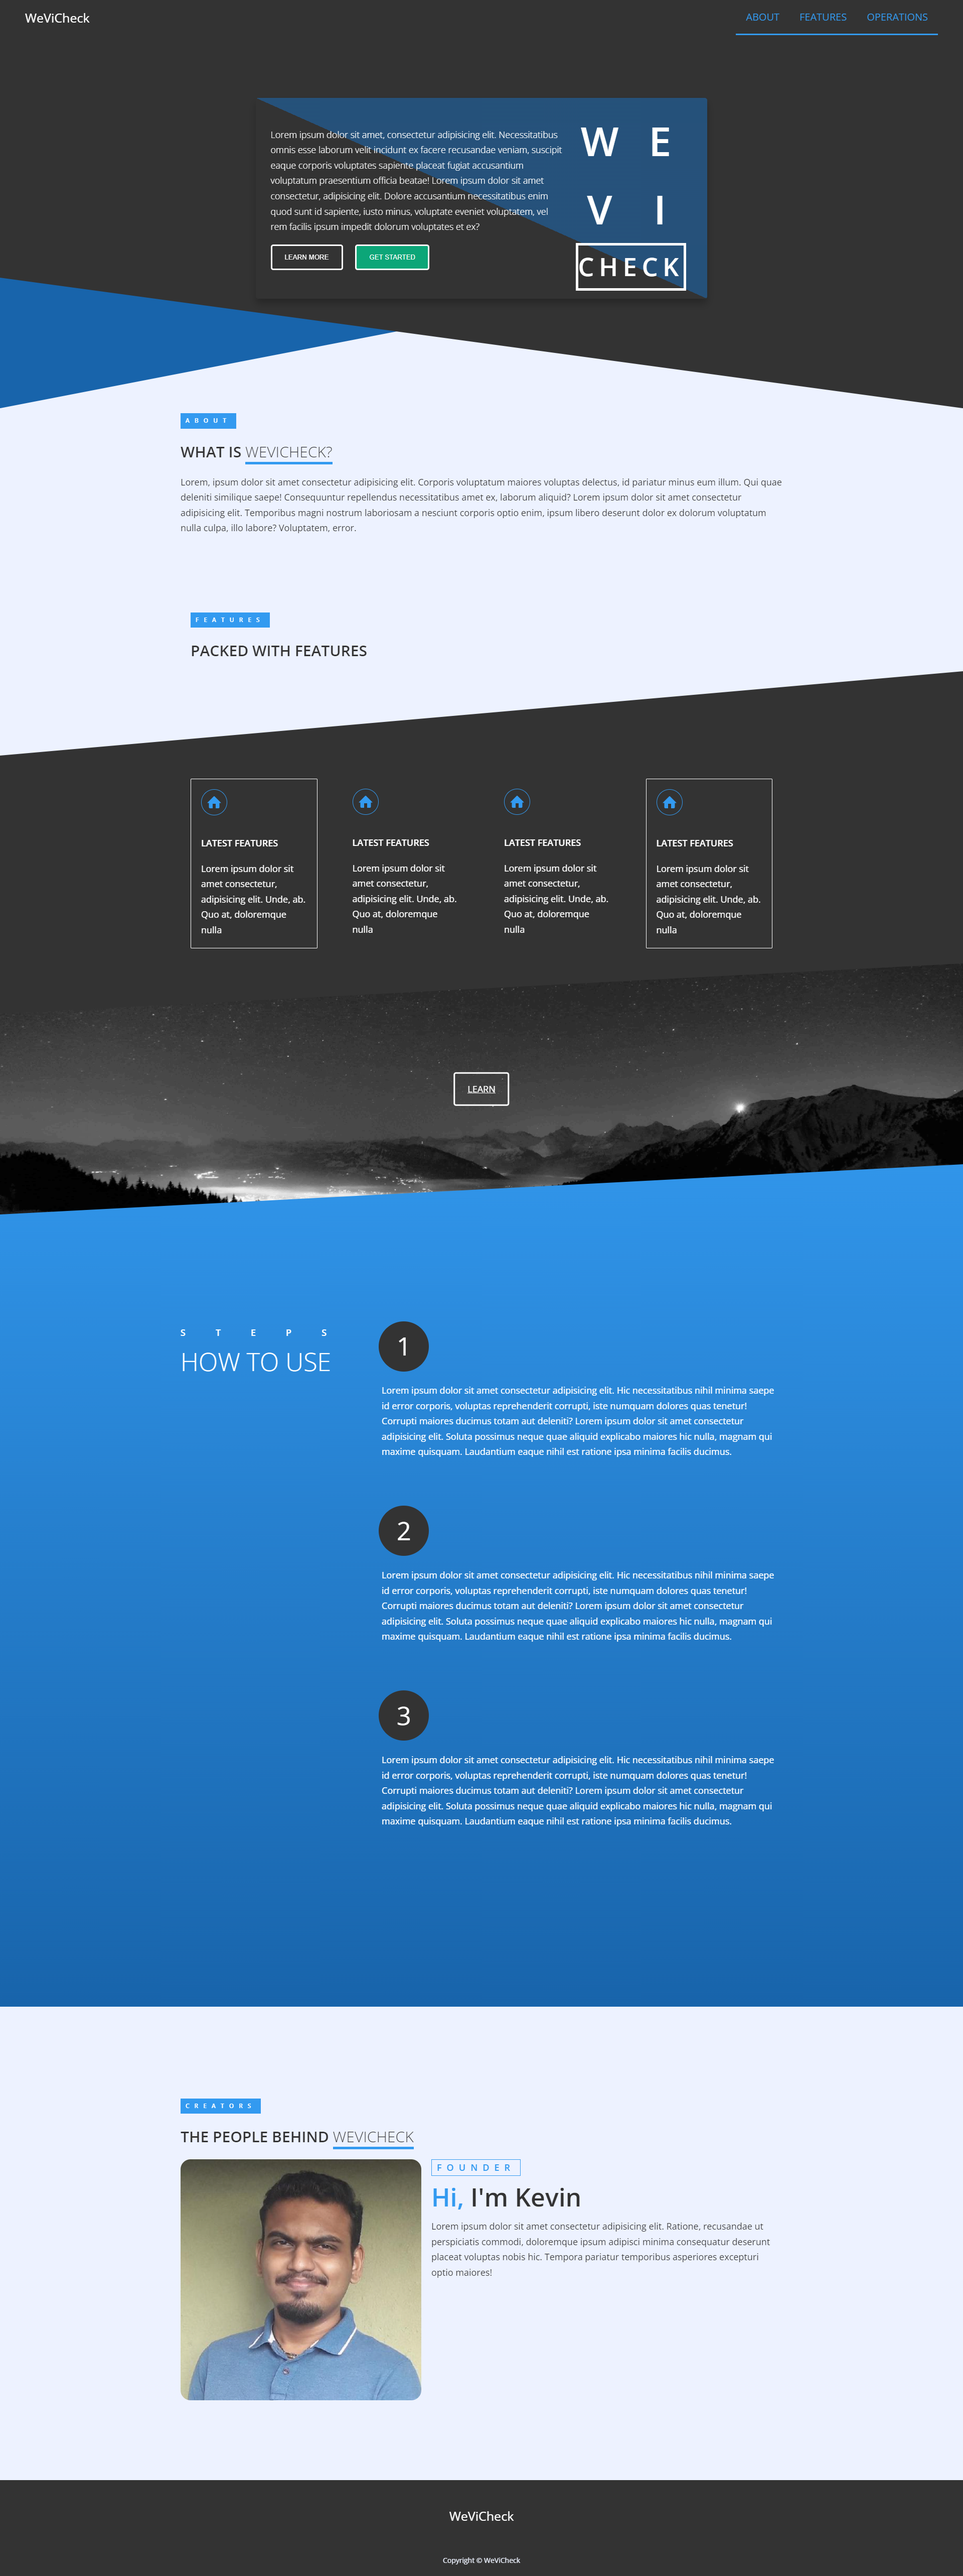
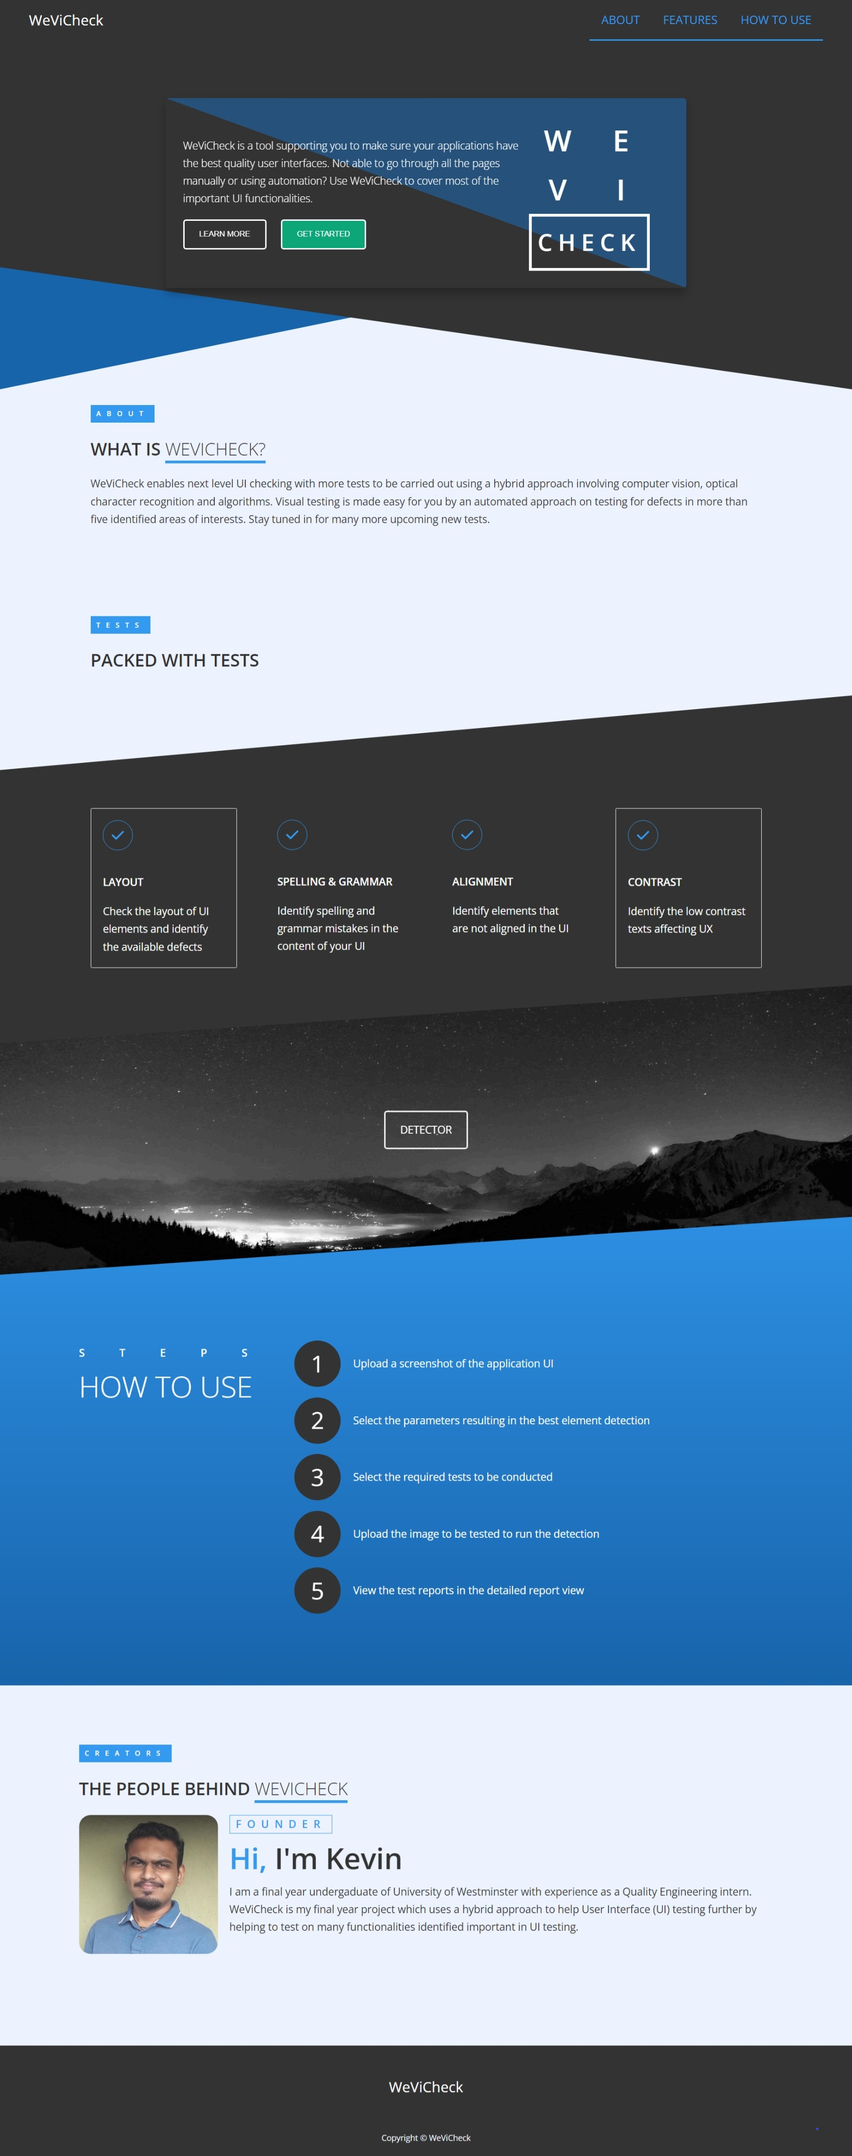
code fix

diff --git a/index.html b/index.html
@@ -143,7 +143,7 @@
           <div>
             <div class="steps__content">
               <span class="steps__number">1</span>
-              <p>Upload screenshots of the application UI</p>
+              <p>Upload a screenshot of the application UI</p>
             </div>
 
             <div class="steps__content">
@@ -160,12 +160,12 @@
 
             <div class="steps__content">
               <span class="steps__number">4</span>
-              <p>Run the detection system and collect the test reports</p>
+              <p>Upload the image to be tested to run the detection</p>
             </div>
 
             <div class="steps__content">
               <span class="steps__number">5</span>
-              <p>Run the detection system and collect the test reports</p>
+              <p>View the test reports in the detailed report view</p>
             </div>
           </div>
         </div>
@@ -190,9 +190,9 @@
               <p>
                 I am a final year undergaduate of University of Westminster with
                 experience as a Quality Engineering intern. WeViCheck is my
-                final year project designed to help User Interface (UI) testing
-                further with the help of a hybrid approach to help testing on
-                many areas identified important in UI testing easier.
+                final year project which uses a hybrid approach to help User
+                Interface (UI) testing further by helping to test on many
+                functionalities identified important in UI testing.
               </p>
             </div>
           </div>

diff --git a/src/js/controller.js b/src/js/controller.js
@@ -105,8 +105,7 @@ if (formTests) {
       });
 
       const data = await res.json();
-      if (data.status === 'success')
-        location.assign('http://127.0.0.1:5501/detector.html');
+      if (data.status === 'success') location.assign('/detector.html');
     } catch (err) {
       console.error(err);
     }
@@ -199,7 +198,7 @@ if (testSelections) {
         //                 </p>
         //               </div>`;
         const html = `
-          <p class="info" style="padding:1rem">
+          <p class="info" style="padding:1rem; font-size:1.5rem">
             ${layout_report.report[x]}
           </p>`;
         resultInfoSection.insertAdjacentHTML('beforeend', html);
